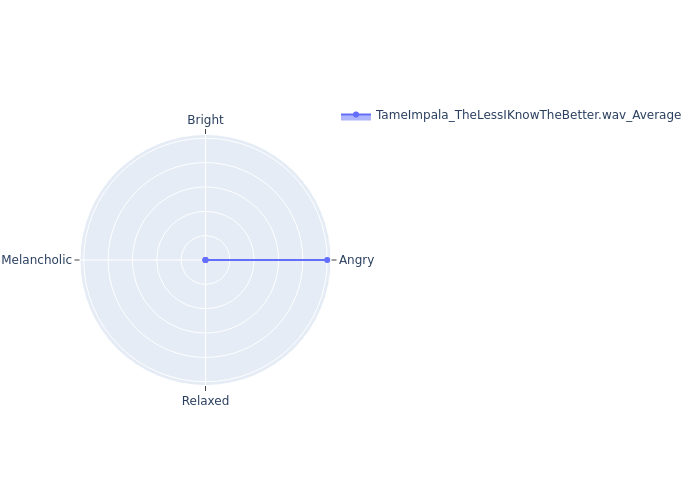
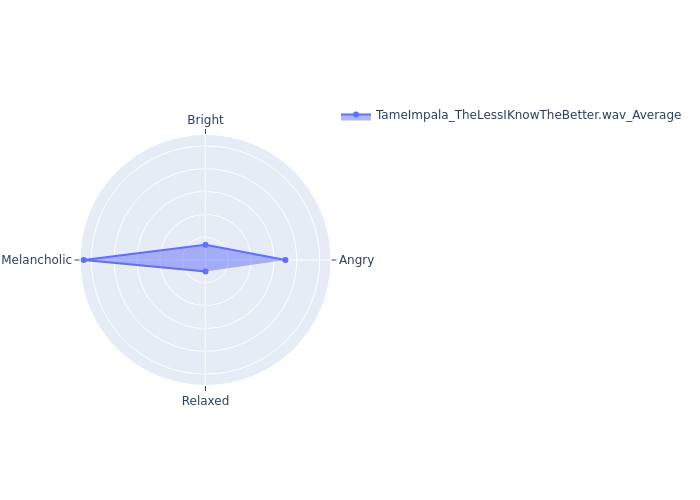
for testing

Changed region(s): [[0.12, 0.48, 0.48, 0.57]]

diff --git a/yt_dataset_testing/save_mfcc.py b/yt_dataset_testing/save_mfcc.py
@@ -8,7 +8,7 @@ JSON_FILE_NAME = "p4_8songs_3sec.json"
 JSON_PATH = JSON_FILE_NAME
 
 SAMPLE_RATE = 22050
-DURATION = 60  # measured in seconds for GTZAN Dataset
+DURATION = 180  # measured in seconds for GTZAN Dataset
 SAMPLES_PER_TRACK = SAMPLE_RATE * DURATION
 
 def save_mfcc(dataset_path, json_path, n_mfcc=13, n_fft=2048, hop_length=512, num_segments=5):
@@ -68,4 +68,4 @@ def save_mfcc(dataset_path, json_path, n_mfcc=13, n_fft=2048, hop_length=512, nu
 
 
 if __name__ == "__main__":
-    save_mfcc(DATASET_PATH, JSON_PATH, num_segments=20)
+    save_mfcc(DATASET_PATH, JSON_PATH, num_segments=60)

diff --git a/yt_dataset_testing/predict_mood.py b/yt_dataset_testing/predict_mood.py
@@ -59,7 +59,7 @@ for i, label_index in enumerate(predicted_class_indices):
     song_radar_values[label_index] += 1
 
     # Calculate and save the radar chart when reaching the end of a song (every 60 segments)
-    if segment_count == 20:
+    if segment_count == 60:
         # Calculate the average radar values for the song
         avg_radar_values = song_radar_values / segment_count
         # Output the averaged radar values to the terminal
